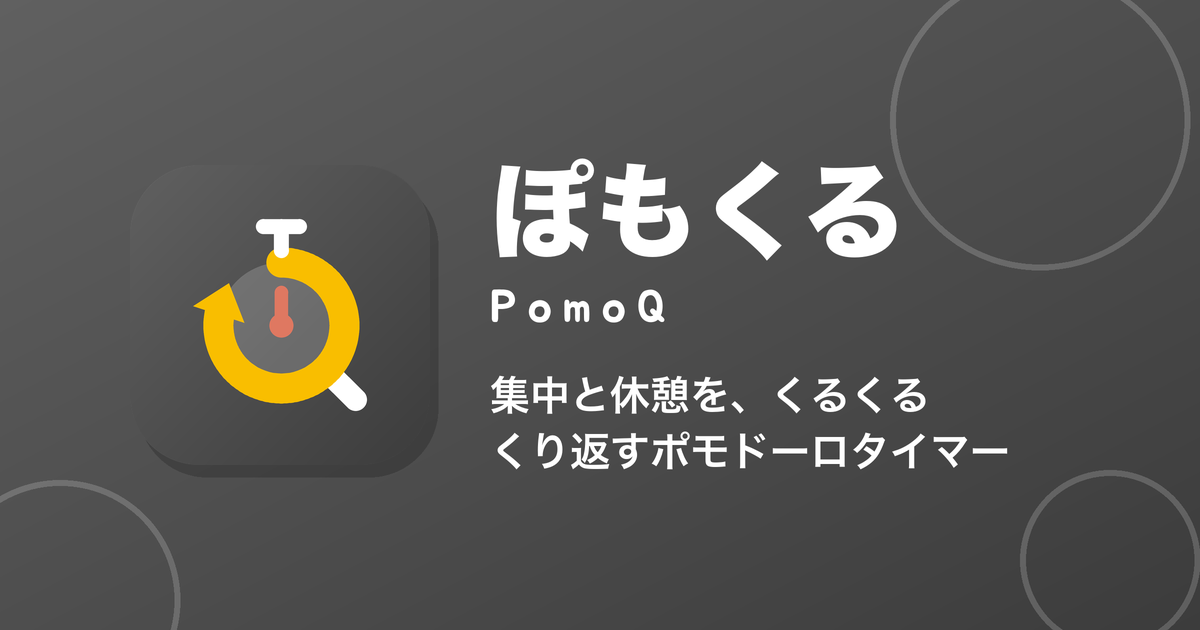
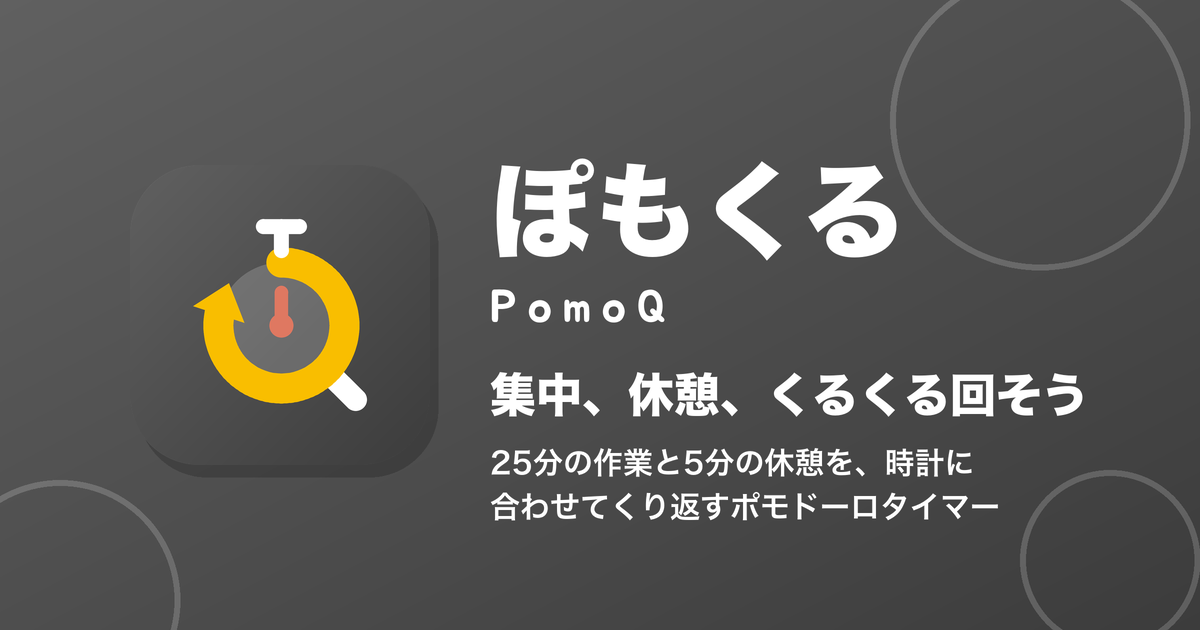
[add] キャッチコピー「集中、休憩、くるくる回そう」を見出しの下と OGP に入れる

diff --git a/index.html b/index.html
@@ -19,7 +19,7 @@
     <link rel="icon" href="icon.svg" type="image/svg+xml">
     <link rel="icon" href="icon-32.png" type="image/png" sizes="32x32">
     <link rel="apple-touch-icon" href="apple-touch-icon.png">
-    <link rel="stylesheet" href="style.css?v=3">
+    <link rel="stylesheet" href="style.css?v=4">
     <link rel="manifest" href="manifest.json">
 </head>
 
@@ -59,6 +59,7 @@
                 <span class="settings-brand-name"><img src="icon.svg" alt="" width="24" height="24">ぽもくる</span>
                 <img class="settings-brand-logo" src="logo.svg" alt="PomoQ" width="62" height="24">
             </div>
+            <p class="settings-brand-copy">集中、休憩、くるくる回そう</p>
             <h2 id="settings-title" class="settings-title">タイマーの設定</h2>
 
             <div class="settings-presets" role="group" aria-label="よく使う組み合わせ">

diff --git a/style.css b/style.css
@@ -389,3 +389,12 @@ body.is-compact .timer-label {
     font-size: 0.032rem;
     line-height: 1;
 }
+
+/* キャッチコピー（設定の名前のすぐ下） */
+.settings-brand-copy {
+    margin: -6px 0 0;
+    color: #4d4d4d;
+    font-size: 13px;
+    font-weight: 800;
+    line-height: 1.4;
+}

diff --git a/tools/icon.py b/tools/icon.py
@@ -63,7 +63,7 @@ def main():
     BRAND.write_icons(ROOT, SHAPES)
     logo, ratio = BRAND.logo_svg("PomoQ", SHAPES, C, RING_OUTER, "PomoQ（ぽもくる）")
     (ROOT / "logo.svg").write_text(logo, encoding="utf-8")
-    BRAND.write_ogp(ROOT / "ogp.png", SHAPES, "ぽもくる", "PomoQ", ["集中と休憩を、くるくる", "くり返すポモドーロタイマー"], decorate)
+    BRAND.write_ogp(ROOT / "ogp.png", SHAPES, "ぽもくる", "PomoQ", ["25分の作業と5分の休憩を、時計に", "合わせてくり返すポモドーロタイマー"], decorate, copy="集中、休憩、くるくる回そう")
     print(f"アイコン・logo.svg（高さ 28px なら幅 {28 * ratio:.0f}px）・ogp.png を書き出しました")
 
 
